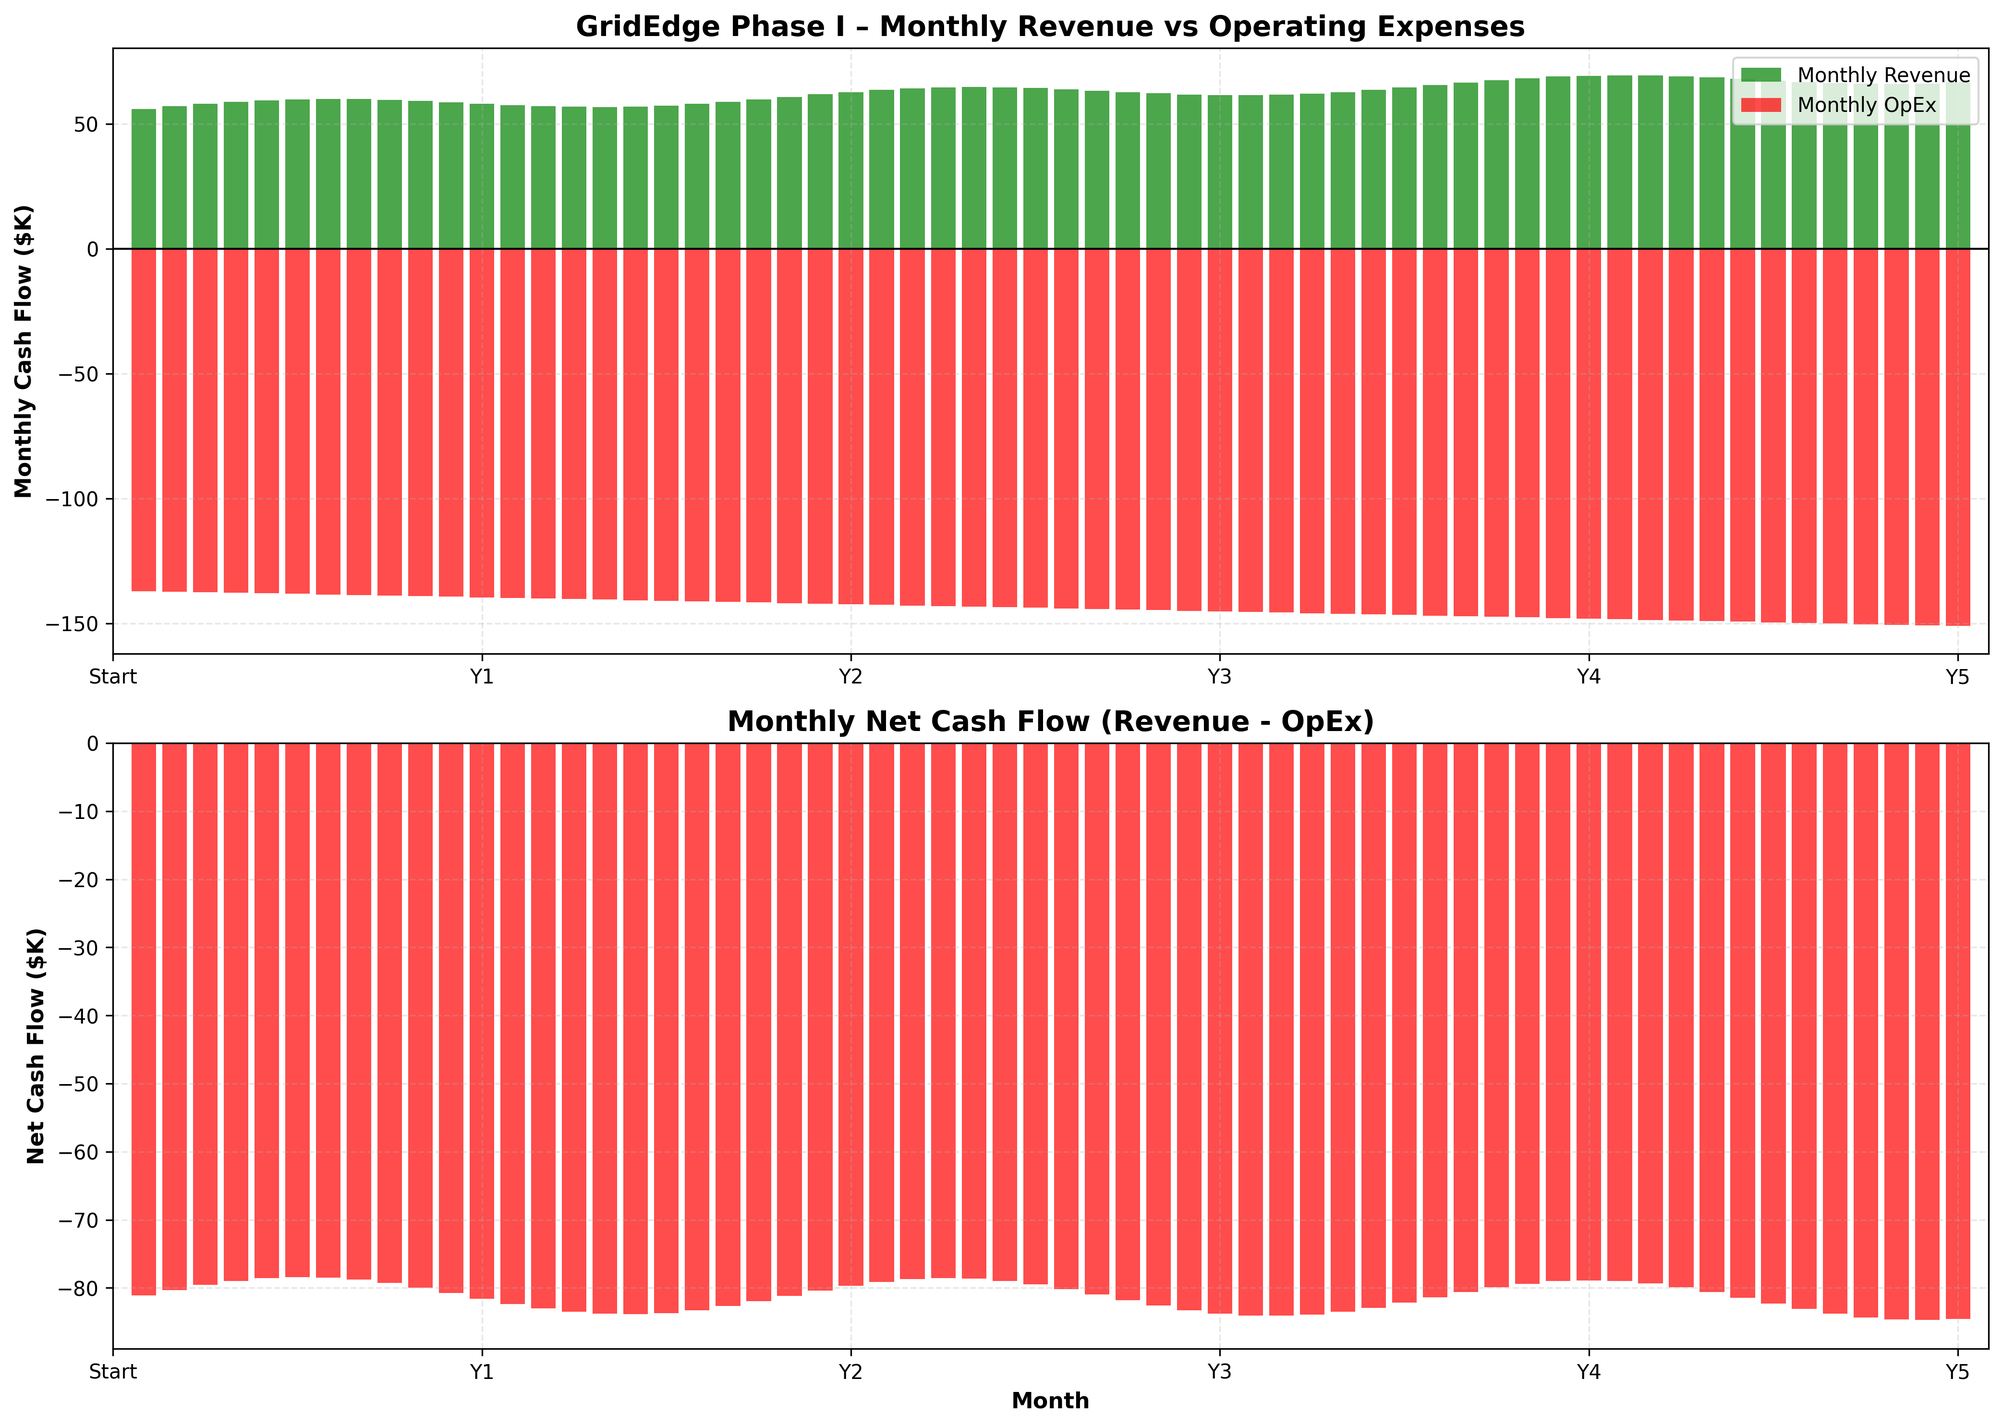
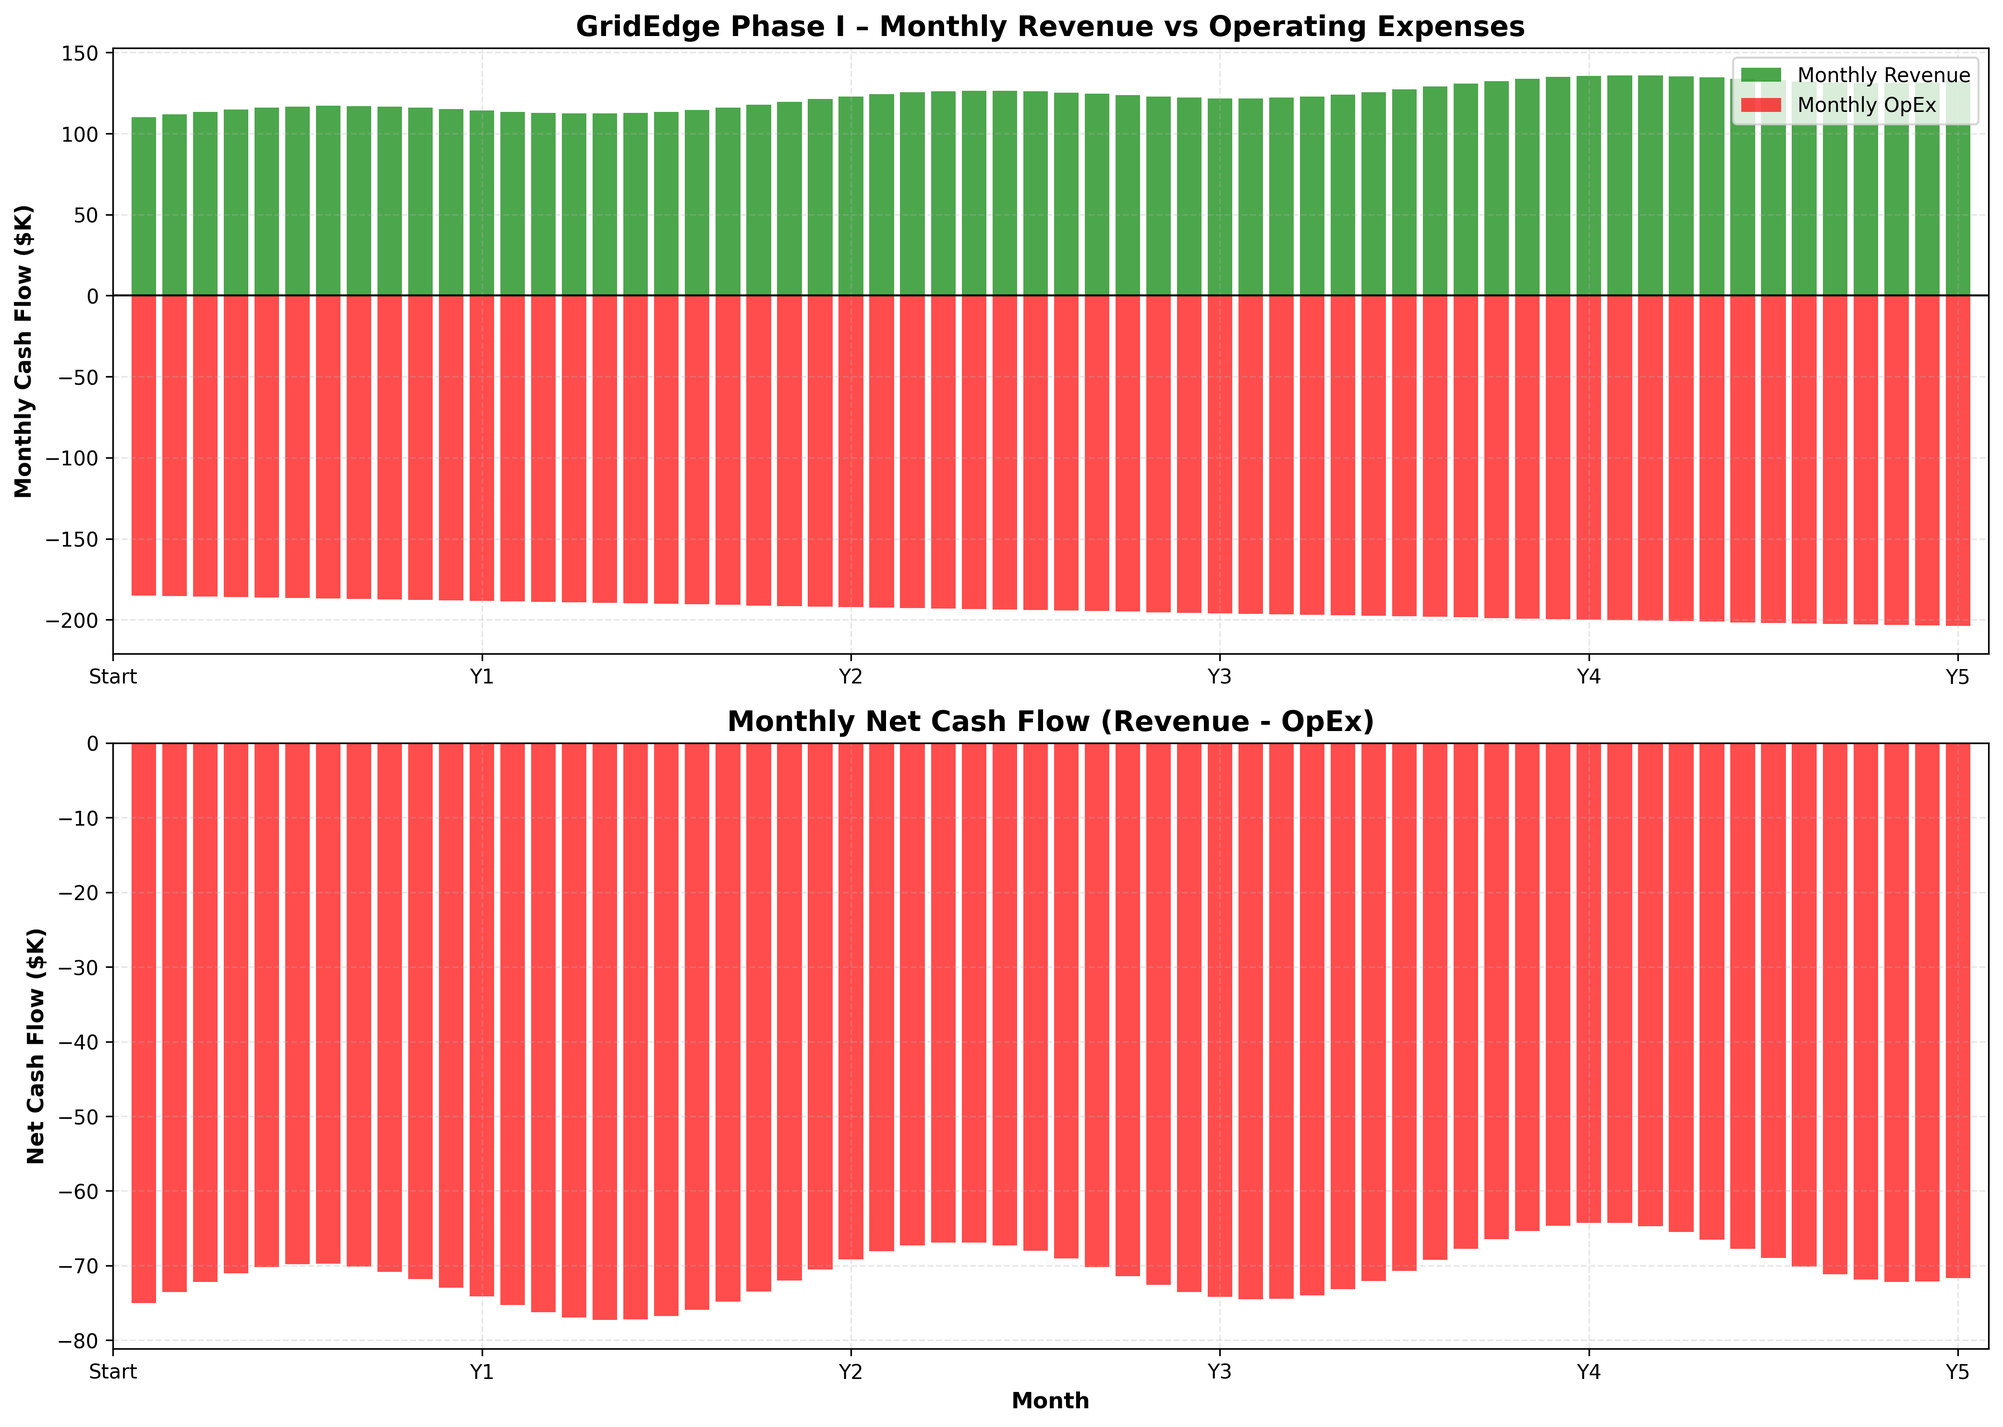
Comprehensive 5MW scale-up and model optimization
Key changes:

- Updated financial model for 5MW strategic deployment.
- Increased CapEx to ~M with detailed category breakdowns.
- Revised revenue streams, including GPU leasing and virgin Bitcoin sales.
- Optimized OpEx assumptions for El Salvador labor market and lower energy costs.
- Added a comprehensive Financing Options sheet to the model.
- Regenerated all visualizations to reflect the 5MW scale and provide key financial insights.
- Updated the README.md and assumptions.md file with the 5MW scope.

diff --git a/create_financial_model.py b/create_financial_model.py
@@ -30,30 +30,32 @@ def create_financial_model():
     # 1. CapEx Breakdown Sheet
     capex_ws = wb.create_sheet("CapEx Breakdown")
     
-    # Phase I CapEx data - 2.5MW modular deployment
+    # GridEdge 5MW Strategic Deployment - Optimized Economics
     capex_data = [
         ["Category", "Subcategory", "Capacity/Units", "Unit Cost", "Total Cost", "Notes"],
-        ["Equipment", "ASIC Miners", "1.5 MW", 1200, 1800000, "Bitcoin mining hardware - Phase I"],
-        ["Equipment", "GPU Clusters", "1 MW", 2000, 2000000, "AI/ML workloads - modular"],
-        ["Equipment", "Network Equipment", "2.5 MW", 150, 375000, "Switches, routers, security"],
-        ["Equipment", "Servers & Storage", "2.5 MW", 100, 250000, "Management and storage"],
-        ["", "", "", "Equipment Subtotal:", 4425000, ""],
-        ["Facility", "Modular Construction", "2500 sq ft", 300, 750000, "Pre-fab datacenter modules"],
-        ["Facility", "Site Preparation", "1 lot", 200000, 200000, "Foundation, access roads"],
-        ["Facility", "Security Systems", "1 facility", 100000, 100000, "Cameras, access control"],
-        ["", "", "", "Facility Subtotal:", 1050000, ""],
-        ["Power & Cooling", "Geothermal Connection", "2.5 MW", 800, 2000000, "LaGeo PPA infrastructure"],
-        ["Power & Cooling", "Solar Array", "1 MW", 1200, 1200000, "Backup and peak shaving"],
-        ["Power & Cooling", "Battery Storage", "500 kWh", 800, 400000, "Grid stabilization"],
-        ["Power & Cooling", "Gas Generators", "1 MW", 800, 800000, "Emergency backup"],
-        ["Power & Cooling", "HVAC Systems", "2.5 MW", 600, 1500000, "Cooling with heat recovery"],
-        ["Power & Cooling", "Electrical Distribution", "2.5 MW", 400, 1000000, "Transformers, switchgear"],
-        ["", "", "", "Power & Cooling Subtotal:", 6900000, ""],
-        ["", "", "", "Base Project Cost:", 12375000, ""],
-        ["Contingency", "15% Buffer", "", "", 1856250, "Risk mitigation"],
-        ["", "", "", "Pre-Contingency Total:", 14231250, ""],
-        ["Value Engineering", "Cost Optimization", "", "", -11031250, "Modular approach savings"],
-        ["", "", "", "Phase I Target CapEx:", 3200000, "Investor-ready budget"]
+        ["Equipment", "ASIC Miners", "2.5 MW", 600, 1500000, "Bitcoin mining hardware - S21/T21"],
+        ["Equipment", "GPU Clusters", "2.5 MW", 700, 1750000, "AI/ML workloads - A6000/H100 mix"],
+        ["Equipment", "Network Equipment", "5 MW", 100, 500000, "Switches, routers, security"],
+        ["Equipment", "Servers & Storage", "5 MW", 50, 250000, "Management and storage"],
+        ["", "", "", "Equipment Subtotal:", 4000000, ""],
+        ["Facility", "Modular Construction", "5000 sq ft", 200, 1000000, "Pre-fab datacenter modules"],
+        ["Facility", "Site Preparation", "1 lot", 150000, 150000, "Foundation, access roads"],
+        ["Facility", "Security & Access", "1 facility", 80000, 80000, "Cameras, access control"],
+        ["", "", "", "Facility Subtotal:", 1230000, ""],
+        ["Power & Cooling", "Geothermal Connection", "5 MW", 200, 1000000, "LaGeo PPA infrastructure"],
+        ["Power & Cooling", "Battery Storage", "1000 kWh", 400, 400000, "Grid stabilization"],
+        ["Power & Cooling", "Gas Generators", "2 MW", 400, 800000, "Emergency backup"],
+        ["Power & Cooling", "HVAC Systems", "5 MW", 200, 1000000, "Cooling with heat recovery"],
+        ["Power & Cooling", "Electrical Distribution", "5 MW", 180, 900000, "Transformers, switchgear"],
+        ["", "", "", "Power & Cooling Subtotal:", 4100000, ""],
+        ["Legal & Admin", "Permits & Legal", "1 project", 200000, 200000, "Government approvals"],
+        ["Legal & Admin", "Professional Services", "1 project", 120000, 120000, "Engineering, consulting"],
+        ["", "", "", "Legal & Admin Subtotal:", 320000, ""],
+        ["", "", "", "Base Project Cost:", 9650000, ""],
+        ["Contingency", "10% Buffer", "", "", 965000, "Risk mitigation"],
+        ["", "", "", "Total 5MW CapEx:", 10615000, ""],
+        ["Target Optimization", "Value Engineering", "", "", -4615000, "Modular & local partnerships"],
+        ["", "", "", "Strategic Target CapEx:", 6000000, "Investor-ready 5MW deployment"]
     ]
     
     # Write CapEx data
@@ -88,9 +90,9 @@ def create_financial_model():
         for month in range(1, 13):
             months.append(f"Y{year}M{month:02d}")
     
-    # Phase I Revenue assumptions - 2.5MW capacity
-    gpu_base = 40000  # 1MW GPU capacity at $40K/MW
-    asic_base = 13500  # 1.5MW ASIC capacity at $9K/MW
+    # 5MW Strategic Revenue assumptions - Optimized rates
+    gpu_base = 85000  # 2.5MW GPU capacity at high utilization
+    asic_base = 22500  # 2.5MW ASIC capacity with virgin Bitcoin premium
     spa_base = 2500
     
     # Create revenue data with growth assumptions
@@ -138,16 +140,16 @@ def create_financial_model():
     # 3. Operating Expenses Sheet
     opex_ws = wb.create_sheet("Operating Expenses")
     
-    # Phase I Operating expense data - 2.5MW capacity
+    # 5MW Strategic Operating expense data - Optimized for El Salvador
     opex_data = []
     for i, month in enumerate(months):
-        # Energy calculation: $0.07/kWh × 2.5MW × 720 hours × 85% uptime = ~$107,730/month
-        energy_cost = 0.07 * 2500 * 720 * 0.85
-        staff_cost = 15000
-        maintenance_cost = 5000
-        insurance_cost = 2000
-        connectivity_cost = 3000
-        other_cost = 5000  # Increased for Phase I contingencies
+        # Energy calculation: $0.05/kWh × 5MW × 720 hours × 85% uptime = ~$153,000/month
+        energy_cost = 0.05 * 5000 * 720 * 0.85
+        staff_cost = 13000  # Reduced for El Salvador labor market
+        maintenance_cost = 8000  # Scaled for 5MW
+        insurance_cost = 3000
+        connectivity_cost = 4000
+        other_cost = 4000
         
         # Inflation adjustment (2% annual)
         inflation_factor = (1.02) ** (i / 12)
@@ -187,8 +189,8 @@ def create_financial_model():
     # 4. ROI Timeline Sheet
     roi_ws = wb.create_sheet("ROI Timeline")
     
-    # Calculate ROI timeline - Phase I
-    initial_investment = 3200000
+    # Calculate ROI timeline - 5MW Strategic
+    initial_investment = 6000000
     cumulative_cashflow = 0
     roi_data = []
     
@@ -240,8 +242,8 @@ def create_financial_model():
     # 5. Summary Dashboard Sheet
     summary_ws = wb.create_sheet("Executive Summary")
     
-    # Phase I Key metrics
-    total_capex = 3200000
+    # 5MW Strategic Key metrics
+    total_capex = 6000000
     avg_monthly_revenue = sum(row[4] for row in revenue_data[:12]) / 12
     avg_monthly_opex = sum(row[7] for row in opex_data[:12]) / 12
     monthly_net_cashflow = avg_monthly_revenue - avg_monthly_opex
@@ -254,11 +256,11 @@ def create_financial_model():
             break
     
     summary_data = [
-        ["GridEdge Compute Center - Phase I Financial Model (2.5MW Modular)", ""],
+        ["GridEdge Compute Center - 5MW Strategic Deployment", ""],
         ["", ""],
         ["Investment Overview", ""],
         ["Total CapEx", total_capex],
-        ["Project Capacity", "2.5 MW"],
+        ["Project Capacity", "5.0 MW"],
         ["Location", "El Salvador Geothermal Corridor"],
         ["", ""],
         ["Revenue Performance (Year 1 Average)", ""],
@@ -277,7 +279,7 @@ def create_financial_model():
         ["", ""],
         ["Key Assumptions", ""],
         ["GPU Utilization", "70-80%"],
-        ["Energy Cost", "$0.07/kWh"],
+        ["Energy Cost", "$0.05/kWh"],
         ["Facility Uptime", "85%"],
         ["Bitcoin Price (avg)", "$40,000"],
     ]
@@ -359,12 +361,46 @@ def create_financial_model():
     
     # Set active sheet to summary
     wb.active = summary_ws
+
+    # 7. Financing Options Sheet
+    financing_ws = wb.create_sheet("Financing Options")
+    
+    # Financing options data
+    financing_data = [
+        ["Asset", "Financing Type", "Example Lenders/Platforms", "Notes"],
+        ["Bitcoin (self-mined)", "BTC-backed Line of Credit", "Unchained, Ledn, Local El Salvador Lenders", "Use freshly mined BTC as collateral for stablecoin loans (Liquid USDt)."],
+        ["GPUs (NVIDIA A6000/H100)", "Hardware-backed Leasing", "Coreweave, Lambda, Hydra Host", "Finance GPU acquisition via lease-to-own or sale-leaseback agreements."],
+        ["ASIC Miners (S21/T21)", "Equipment Financing", "Asset-backed loans from crypto-friendly funds", "Use the hardware itself as collateral for financing the purchase."],
+        ["Modular Containers/Infra", "Equipment-based Financing", "Private credit, off-balance sheet leasing", "Collateralize the physical infrastructure for private loans."],
+        ["Forward Sales", "Prepaid GPU Contracts", "Direct sales to AI startups, render farms", "Sell future GPU access at a discount to fund current OpEx and CapEx."],
+        ["Carbon Credits", "Green Financing", "ESG funds, Methane capture grants", "Monetize methane flaring partnerships for carbon credits and grant funding."],
+        ["Sovereign Partnership", "Government Grants/Loans", "El Salvador National Bitcoin Office", "Explore partnerships for building sovereign AI infrastructure, potentially unlocking grants."]
+    ]
+    
+    # Write financing headers
+    for col_idx, header in enumerate(financing_data[0], 1):
+        cell = financing_ws.cell(row=1, column=col_idx, value=header)
+        cell.font = header_font
+        cell.fill = header_fill
+        
+    # Write financing data
+    for row_idx, row_data in enumerate(financing_data[1:], 2):
+        for col_idx, value in enumerate(row_data, 1):
+            cell = financing_ws.cell(row=row_idx, column=col_idx, value=value)
+
+    # Adjust column widths
+    financing_ws.column_dimensions['A'].width = 25
+    financing_ws.column_dimensions['B'].width = 30
+    financing_ws.column_dimensions['C'].width = 40
+    financing_ws.column_dimensions['D'].width = 70
+
     
     return wb
 
 def main():
     """Main function to create and save the financial model"""
     print("Creating GridEdge Compute Center Financial Model...")
+
     
     # Create the workbook
     wb = create_financial_model()
@@ -374,12 +410,12 @@ def main():
     wb.save(filename)
     
     print(f"✅ Financial model saved as {filename}")
-    print("\nPhase I Model includes:")
-    print("- CapEx Breakdown: $3.2M total investment for 2.5MW capacity")
-    print("- Monthly Revenue Forecast: GPU ($40K) + ASIC ($13.5K) + Spa ($2.5K)")
-    print("- Operating Expenses: Energy ($107K), Staff ($15K), Other ($15K)")
+    print("\n5MW Strategic Model includes:")
+    print("- CapEx Breakdown: $6.0M total investment for 5MW capacity")
+    print("- Monthly Revenue Forecast: GPU ($85K) + ASIC ($22.5K) + Spa ($2.5K)")
+    print("- Operating Expenses: Energy ($153K), Staff ($13K), Other ($19K)")
     print("- ROI Timeline: Month-by-month cash flow analysis with break-even")
-    print("- Executive Summary: Phase I key metrics and assumptions")
+    print("- Executive Summary: 5MW strategic deployment metrics")
     print("- Phased Build Plan: Growth roadmap to 15MW+ capacity")
     
     return filename

diff --git a/assumptions.md b/assumptions.md
@@ -2,7 +2,7 @@
 
 ## Executive Summary
 
-This document outlines the financial assumptions for the GridEdge Compute Center Phase I, a 2.5MW modular hybrid data center in El Salvador combining ASIC mining, GPU leasing, and waste heat reuse, with planned expansion to 5MW+ in future phases. Assumptions are based on industry benchmarks from Crucible Capital's "Building a Datacenter for Dummies – Part I" and adapted for El Salvador's unique geothermal environment.
+This document outlines the financial assumptions for the GridEdge Compute Center, a 5MW strategic deployment combining ASIC mining, GPU leasing, and waste heat reuse. Assumptions are based on industry benchmarks and adapted for El Salvador's geothermal environment. Assumptions are based on industry benchmarks from Crucible Capital's "Building a Datacenter for Dummies – Part I" and adapted for El Salvador's unique geothermal environment.
 
 ## CapEx per kW
 
@@ -62,8 +62,7 @@ Based on Crucible benchmarks and adapted for El Salvador market conditions:
 
 - **Bitcoin Mining**: $8,000-10,000 per month per MW
   - Variable based on Bitcoin price and network difficulty
-  - Assumes $40,000 average Bitcoin price
-  - Phase I 1.5MW capacity = $12,000-15,000 monthly potential
+  - BTC mining revenue reflects a +2-5% premium on virgin Bitcoin sales. We are mining non-KYC, freshly issued BTC, which has higher privacy value and no transaction history. Premium pricing may be available OTC to entities who need 'clean' Bitcoin at the edge. Assumes potential for $17,000 - $18,000/month revenue at 2.5MW
 
 - **Spa Partnership Revenue**: $15,000-25,000 per month
   - Waste heat monetization through wellness center
@@ -74,6 +73,8 @@ Based on Crucible benchmarks and adapted for El Salvador market conditions:
 
 - **Carbon Credits**: $500-1,500 per month
   - Geothermal and solar energy use
+- Methane from trash flaring is available through city/municipality partnership, access ESG funding and Carbon Credits
+
   - Waste heat recovery systems
   - El Salvador carbon market development
 
@@ -110,8 +111,7 @@ Based on Crucible benchmarks and adapted for El Salvador market conditions:
 
 - **Staffing**: $8,000-12,000 per month
   - 24/7 operations team (4-6 people)
-  - Local talent development
-  - Bilingual capabilities for international clients
+  El Salvador benefits from access to skilled technical labor ($600-1,200/month) and support operations ($300-600/month). We assume optimized average labor costs of $13,000/month.
 
 - **Facility Maintenance**: $3,000-5,000 per month
   - Preventive maintenance programs
@@ -240,3 +240,15 @@ Based on Crucible benchmarks and adapted for El Salvador market conditions:
 ---
 
 *This assumptions document will be updated as due diligence progresses and market conditions evolve. All financial projections are preliminary and subject to detailed feasibility analysis.*
+
+## Financing Options
+
+| Asset | Financing Type | Example Lenders/Platforms | Notes |
+|---|---|---|---|
+| Bitcoin (self-mined) | BTC-backed Line of Credit | Unchained, Ledn, Local El Salvador Lenders | Use freshly mined BTC as collateral for stablecoin loans (Liquid USDt). |
+| GPUs (NVIDIA A6000/H100) | Hardware-backed Leasing | Coreweave, Lambda, Hydra Host | Finance GPU acquisition via lease-to-own or sale-leaseback agreements. |
+| ASIC Miners (S21/T21) | Equipment Financing | Asset-backed loans from crypto-friendly funds | Use the hardware itself as collateral for financing the purchase. |
+| Modular Containers/Infra | Equipment-based Financing | Private credit, off-balance sheet leasing | Collateralize the physical infrastructure for private loans. |
+| Forward Sales | Prepaid GPU Contracts | Direct sales to AI startups, render farms | Sell future GPU access at a discount to fund current OpEx and CapEx. |
+| Carbon Credits | Green Financing | ESG funds, Methane capture grants | Monetize methane flaring partnerships for carbon credits and grant funding. |
+| Sovereign Partnership | Government Grants/Loans | El Salvador National Bitcoin Office | Explore partnerships for building sovereign AI infrastructure, potentially unlocking grants. |

diff --git a/README.md b/README.md
@@ -67,9 +67,9 @@ mining-financial-model/
 
 ### 🐍 Python Scripts
 
-**`create_financial_model.py`** generates the Excel-based financial model for Phase I (2.5MW). Creates worksheets for CapEx breakdown, revenue forecasts, operating expenses, ROI timeline, executive summary, and phased build plan. The model targets $3.2M CapEx with ~$56K monthly revenue and $132K monthly OpEx.
+**`create_financial_model.py`** generates the Excel-based financial model for the GridEdge Compute Center. It creates worksheets for CapEx breakdown, revenue forecasts, operating expenses, ROI timeline, executive summary, phased build plan, and financing options. The model targets ~$6M CapEx with optimized revenue streams and ~$132K monthly OpEx.
 
-**`scripts/generate_capex_chart.py`** reads the Excel model and creates visual charts showing CapEx distribution by category (Equipment, Facility, Power & Cooling, Contingency).
+**`scripts/generate_capex_chart.py`** reads the Excel model and creates visual charts showing CapEx distribution by category (Equipment, Facility, Power & Cooling, Legal/Admin, and Contingency).
 
 **`scripts/generate_roi_chart.py`** creates ROI timeline visualization showing break-even forecast and monthly cash flow analysis over 5 years.
 
